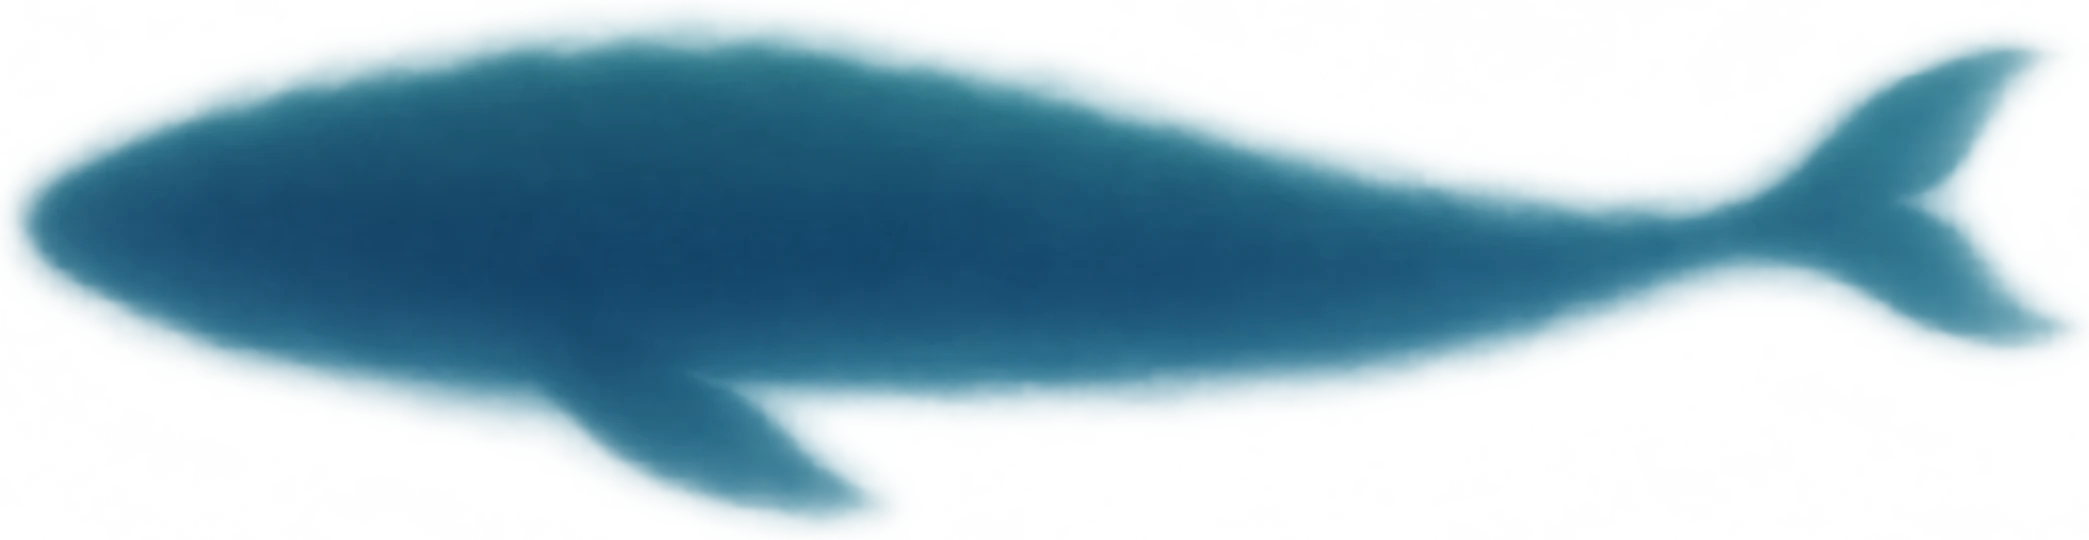
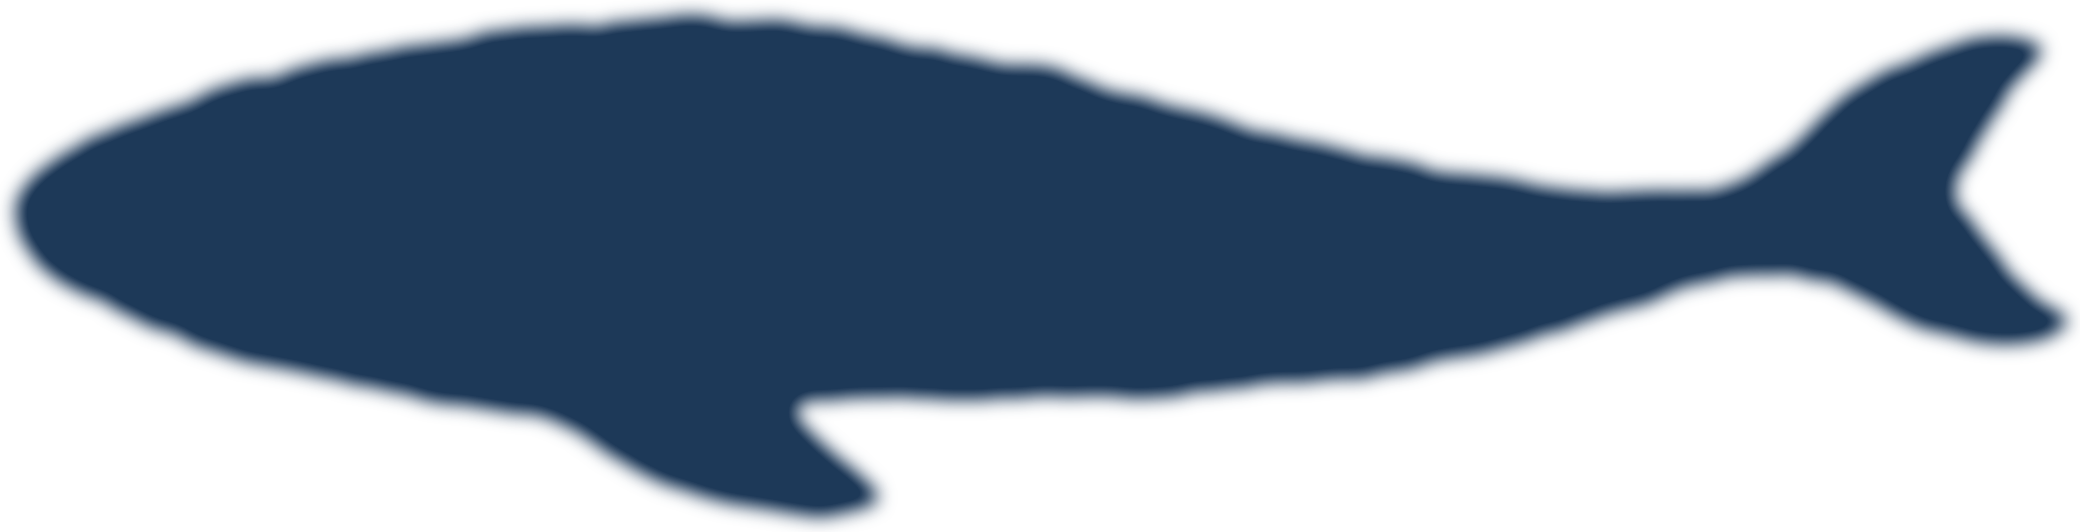
자세 그림으로 움직임 교체: 그림자 헤엄·돌아서기·몸부림·잠수·솟구침, 수면 부풀기, 고래가 머리부터 나오는 솟구침
- 그림자: 한 장을 늘리고 눌러 뒤집던 방식을 버리고 자세 그림을 넘겨 가며 표시
- 낚이기 직전: 웅크림(잠수 자세) → 돌진(솟구침 자세) → 수면이 부풀어 터짐
- 솟구침: 입이 지나가는 길을 따라 머리만 → 몸 절반 → 온몸 순서로 등장
- 변환 도구: 그림자 장마다 다른 색·번짐을 한 가지로 통일

Claude-Session: https://claude.ai/code/session_0142yqQtSepe3ngremP8BMYq

diff --git a/src/render.js b/src/render.js
@@ -225,6 +225,7 @@ export function render(ctx, g) {
   drawWave(ctx, g, view, -2.5, 0.75, -g.time * 5, false);     // 뒤쪽 파도
   drawRays(ctx, g);
   drawLeap(ctx, g, false);
+  drawBulge(ctx, g);
   drawBursts(ctx, g);
   drawBoat(ctx, g);
   drawWave(ctx, g, view, 0, 1, g.time * 9, true);             // 앞쪽 파도 (배 밑동을 가린다)
@@ -292,44 +293,54 @@ function drawShafts(ctx, g) {
   ctx.restore();
 }
 
-// 그림자 (모든 생물 공통). 방향을 바꿀 때는 뒤집지 않고 몸을 틀어 짧아졌다 길어진다.
-// 버퍼에 이음매 없이 휘어 그린 뒤, 물색을 어둡게 물들이는 방식(multiply)으로 찍는다.
-const SH_N = 96, SH_W = 10;                      // 조각 수 × 조각 폭(px) = 버퍼 안의 몸길이
-const shadowBuf = document.createElement('canvas');
-shadowBuf.width = SH_N * SH_W + 64; shadowBuf.height = 600;   // 크게 휠 때도 잘리지 않게 넉넉히
-const shadowCtx = shadowBuf.getContext('2d');
+// 그림자 (모든 생물 공통). 그림 한 장을 늘리거나 뒤집지 않고 자세 그림을 넘긴다:
+//   헤엄 = 꼬리가 오르내리는 4동작을 번갈아, 돌아서기 = 몸을 트는 3동작을 거쳐 반대쪽으로,
+//   몸부림·잠수·솟구침 = 각각의 자세.
+// 물색을 어둡게 물들이는 방식(multiply)으로 찍어 물속에 잠긴 것처럼 보이게 한다.
+//                 그림 폭 ÷ 몸길이   기울기 반영 정도
+const POSE = {
+  swim:   { span: 1.0,  tilt: 1 },
+  turn_1: { span: 0.8,  tilt: 0.3 },
+  turn_2: { span: 0.68, tilt: 0.2 },
+  turn_3: { span: 0.62, tilt: 0 },
+  thrash: { span: 0.92, tilt: 0.3 },
+  dive:   { span: 0.86, tilt: 0.3 },
+  surge:  { span: 0.86, tilt: 0.3 },
+};
+
+function drawShadowPose(ctx, s, name, pose, alpha) {
+  if (alpha < 0.01) return;
+  const spr = sprite(name), d = POSE[pose];
+  const w = s.len * d.span, h = w * spr.h / spr.w;
+  const depth = clamp(s.y / DEEP, 0, 1);
+  ctx.save();
+  ctx.translate(s.x, WL + s.y);
+  ctx.scale(s.face > 0 ? -1 : 1, 1);            // 그림은 왼쪽을 본다
+  ctx.rotate(-s.pitch * d.tilt);
+  ctx.imageSmoothingEnabled = true;
+  ctx.globalCompositeOperation = 'multiply';     // 물을 어둡게
+  ctx.globalAlpha = lerp(1, 0.6, depth) * s.vis * alpha;
+  ctx.drawImage(spr.img, -w / 2, -h / 2, w, h);
+  ctx.drawImage(spr.img, -w / 2, -h / 2, w, h);
+  ctx.globalCompositeOperation = 'source-over';  // 형태가 또렷이 읽히도록 한 번 더 옅게
+  ctx.globalAlpha = lerp(0.3, 0.08, depth) * s.vis * alpha;
+  ctx.drawImage(spr.img, -w / 2, -h / 2, w, h);
+  ctx.restore();
+}
 
 function drawShadow(ctx, g) {
   const s = g.sw;
   if (!s || s.vis < 0.01) return;
-  const spr = sprite('c_shadow');
-  const inner = SH_N * SH_W, bh = inner * spr.h / spr.w, sw = spr.img.width / SH_N;
-  shadowCtx.clearRect(0, 0, shadowBuf.width, shadowBuf.height);
-  shadowCtx.imageSmoothingEnabled = true;
-  for (let i = 0; i < SH_N; i++) {               // 머리(왼쪽)는 거의 그대로, 꼬리로 갈수록 크게 위아래로
-    const k = i / (SH_N - 1);
-    let off = Math.sin(s.tail - k * 4.2) * inner * s.tailAmp * (0.28 + k * 0.72);   // 온몸이 물결치고 꼬리가 가장 크게
-    off += s.shake * 0.5 * Math.sin(g.time * 16) * inner * 0.04 * (1 - k) * (1 - k);
-    shadowCtx.drawImage(spr.img, i * sw, 0, sw, spr.img.height, 32 + i * SH_W, (shadowBuf.height - bh) / 2 + off, SH_W, bh);
-  }
-  const k = s.len / inner;
-  // 그림은 왼쪽을 본다. 몸을 트는 동안에도 정면에서 본 몸통 굵기(약 30%)보다 좁아지지 않는다.
-  const fx = (s.face <= 0 ? 1 : -1) * Math.max(0.3, Math.abs(s.face));
-  const depth = clamp(s.y / DEEP, 0, 1);
-  ctx.save();
-  ctx.translate(s.x, WL + s.y);
-  ctx.scale(fx, 1);
-  ctx.rotate(-s.pitch * Math.abs(s.face));
-  ctx.imageSmoothingEnabled = true;
-  const dx = -shadowBuf.width * k / 2, dy = -shadowBuf.height * k / 2, dw = shadowBuf.width * k, dh = shadowBuf.height * k;
-  ctx.globalCompositeOperation = 'multiply';     // 물을 어둡게
-  ctx.globalAlpha = lerp(1, 0.6, depth) * s.vis;
-  ctx.drawImage(shadowBuf, dx, dy, dw, dh);
-  ctx.drawImage(shadowBuf, dx, dy, dw, dh);
-  ctx.globalCompositeOperation = 'source-over';  // 형태가 또렷이 읽히도록 한 번 더 옅게
-  ctx.globalAlpha = lerp(0.35, 0.1, depth) * s.vis;
-  ctx.drawImage(shadowBuf, dx, dy, dw, dh);
-  ctx.restore();
+  const one = (pose, alpha) => {
+    if (pose !== 'swim') return drawShadowPose(ctx, s, 'c_shadow_' + pose, pose, alpha);
+    // 헤엄: 꼬리 박자에 맞춰 4동작을 이어 넘긴다
+    const ph = wrapX(s.tail / (Math.PI * 2), 1) * 4, i = Math.floor(ph), f = ph - i;
+    const k = f * f * (3 - 2 * f);
+    drawShadowPose(ctx, s, 'c_shadow_swim_' + (i + 1), 'swim', alpha * (1 - k));
+    drawShadowPose(ctx, s, 'c_shadow_swim_' + ((i + 1) % 4 + 1), 'swim', alpha * k);
+  };
+  if (s.prevPose && s.mix < 1) one(s.prevPose, 1 - s.mix);
+  one(s.pose, s.prevPose ? s.mix : 1);
 }
 
 function drawBubbles(ctx, g) {
@@ -358,21 +369,57 @@ function drawRays(ctx, g) {
   ctx.restore();
 }
 
-// 낚아 올린 생물. under=true 는 수면 아래에 잠긴 부분(어둡게), false 는 물 위 부분.
+// 낚아 올린 생물. under=true 는 수면 아래에 잠긴 부분(어두운 덩어리), false 는 물 위 부분.
+// 솟구치는 동안에는 입의 위치를 기준으로 자세 그림을 넘긴다: 머리만 → 몸 절반 → 온몸.
+//                    그림              폭 ÷ 온몸 폭   그림 안에서 입의 위치(가로, 세로)
+const RISE = [
+  ['c_whale_rise_1', 0.52, 0.93, 0.20],
+  ['c_whale_rise_2', 0.72, 0.95, 0.14],
+  ['c_whale_leap',   1.00, 0.96, 0.22],
+];
+const UNDER_TINT = ['#0a2140', 0.94];
+
 function drawLeap(ctx, g, under) {
   const c = g.catch;
   if (!c || c.phase === 'pull') return;
-  // 물에 잠긴 부분은 무늬가 보이지 않는 어두운 그림자 덩어리로 (물속 그림자와 같은 색)
-  const base = under ? tinted('c_whale_leap', '#0a2140', 0.94) : sprite('c_whale_leap');
-  const fall = under ? tinted('c_whale_fall', '#0a2140', 0.94) : sprite('c_whale_fall');
-  const w = c.lw * c.scale;
   ctx.save();
   if (!under) { ctx.beginPath(); ctx.rect(-4000, -4000, 8000, 4000 + WL + 1.5); ctx.clip(); }
-  ctx.translate(c.x, c.y); ctx.rotate(c.rot);
   ctx.imageSmoothingEnabled = true; ctx.imageSmoothingQuality = 'high';
   const a = c.alpha * (under ? 0.88 : 1);
-  if (c.mix < 1) { ctx.globalAlpha = a * (1 - c.mix); ctx.drawImage(base.img, -w / 2, -w * base.h / base.w / 2, w, w * base.h / base.w); }
-  if (c.mix > 0) { ctx.globalAlpha = a * c.mix; ctx.drawImage(fall.img, -w / 2, -w * fall.h / fall.w / 2, w, w * fall.h / fall.w); }
+  if (c.phase === 'leap') {
+    const [name, wk, fx, fy] = RISE[c.stage];
+    if (!under || c.stage === 2) {               // 머리·절반 자세는 물에 잠긴 부분이 그림에 없다
+      const spr = under ? tinted(name, ...UNDER_TINT) : sprite(name);
+      const w = c.lw * wk, h = w * spr.h / spr.w;
+      ctx.globalAlpha = a;
+      ctx.translate(c.mx, c.my); ctx.rotate(c.rot);
+      ctx.drawImage(spr.img, -fx * w, -fy * h, w, h);
+    }
+  } else {
+    const base = under ? tinted('c_whale_leap', ...UNDER_TINT) : sprite('c_whale_leap');
+    const fall = under ? tinted('c_whale_fall', ...UNDER_TINT) : sprite('c_whale_fall');
+    const w = c.lw * c.scale;
+    ctx.translate(c.x, c.y); ctx.rotate(c.rot);
+    if (c.mix < 1) { ctx.globalAlpha = a * (1 - c.mix); ctx.drawImage(base.img, -w / 2, -w * base.h / base.w / 2, w, w * base.h / base.w); }
+    if (c.mix > 0) { ctx.globalAlpha = a * c.mix; ctx.drawImage(fall.img, -w / 2, -w * fall.h / fall.w / 2, w, w * fall.h / fall.w); }
+  }
+  ctx.restore();
+}
+
+// 낚이기 직전: 머리가 밀어 올린 수면이 둥글게 부풀다가(1) 터지며 갈라진다(2)
+function drawBulge(ctx, g) {
+  const c = g.catch;
+  if (!c) return;
+  let k, frame, a = 1;
+  if (c.phase === 'pull' && c.bulgeK > 0) { k = Math.min(1, c.bulgeK); frame = c.bulgeK > 1 ? 2 : 1; }
+  else if (c.phase === 'leap' && c.pt < 0.3) { k = 1; frame = 2; a = 1 - c.pt / 0.3; }
+  else return;
+  const spr = sprite('c_bulge_' + frame);
+  const w = c.lw * 0.85 * (0.45 + 0.55 * k), h = w * spr.h / spr.w * (0.35 + 0.65 * k);
+  ctx.save();
+  ctx.globalAlpha = a * Math.min(1, k * 3);
+  ctx.imageSmoothingEnabled = true;
+  ctx.drawImage(spr.img, c.hitX - w / 2, surfaceY(g, c.hitX) + h * 0.4 - h, w, h);
   ctx.restore();
 }
 

diff --git a/src/game.js b/src/game.js
@@ -6,7 +6,7 @@ import {
 } from './config.js';
 import { rollCreature } from './creatures.js';
 import { preloadCreature } from './assets.js';
-import { createSwimmer, steer, mouth } from './swim.js';
+import { createSwimmer, steer, mouth, updatePose } from './swim.js';
 
 const rand = (a, b) => a + Math.random() * (b - a);
 const lerp = (a, b, t) => a + (b - a) * t;
@@ -170,7 +170,7 @@ function reelIn(g) {
 function flee(g) {
   if (!g.sw) return;
   const s = g.sw;
-  s.fleeing = true;
+  s.fleeing = true; s.act = 'dive';
   s.target = { x: s.x - 320 - s.len * 0.4, y: DEEP + 20, speed: 1.4 };
 }
 
@@ -288,6 +288,8 @@ export function update(g, dt) {
       break;
     }
   }
+
+  if (g.sw) updatePose(g.sw, dt);
 
   // 달아나는 그림자: 깊어지고 흐려지다 사라진다
   if (g.sw && g.sw.fleeing) {
@@ -479,6 +481,7 @@ function updateFight(g, dt) {
   }
   steer(s, dt, { arrive: f.mode !== 'run' });
   s.vis = 1;
+  s.act = f.mode === 'thrash' && s.y < 30 ? 'thrash' : f.mode === 'dive' && s.pitch > 0.18 ? 'dive' : null;
 
   followLine(g, dt);
   g.bob.dipTarget = f.surging ? 8 : 5;
@@ -540,6 +543,7 @@ function startCatch(g) {
     rise: 1.15 + clamp(L / 1500, 0, 0.6),
     x: ex, y: WL + 200, rot: -0.5, out: 0, mix: 0, alpha: 1, scale: 1,
     erupted: false, shed: 0, skip: false, from: null, trail: 0,
+    bulgeK: 0, hitX: ex, stage: 0, mx: ex, my: WL,
   };
   g.fight = null;
   snd(g, 'surge');
@@ -549,6 +553,7 @@ function startCatch(g) {
 // 솟구치는 자세 그림 안에서 입의 위치 (그림 폭·높이 대비, 가운데 기준)
 export const LEAP_MOUTH = [0.46, -0.28];
 export function leapMouth(c, lh) {
+  if (c.phase === 'leap') return { x: c.mx, y: c.my };
   const mx = LEAP_MOUTH[0] * c.lw * c.scale, my = LEAP_MOUTH[1] * lh * c.scale;
   const cs = Math.cos(c.rot), sn = Math.sin(c.rot);
   return { x: c.x + mx * cs - my * sn, y: c.y + mx * sn + my * cs };
@@ -571,21 +576,22 @@ function updateCatch(g, dt) {
       const coil = { x: c.ex - lw * 0.3, y: Math.min(DEEP * 0.6, 40 + lh * 0.15) }, hit = { x: c.ex - lw * 0.12, y: 14 };
       if (u < 0.55) {
         const k = u / 0.55, e = k * k * (3 - 2 * k);
-        s.x = lerp(f.x, coil.x, e); s.y = lerp(f.y, coil.y, e); s.pitch = lerp(f.pitch, 0.15, e);
+        s.x = lerp(f.x, coil.x, e); s.y = lerp(f.y, coil.y, e); s.pitch = lerp(f.pitch, 0.2, e);
+        s.act = k > 0.35 ? 'dive' : null;
       } else {
         const k = (u - 0.55) / 0.45, e = k * k;                       // 점점 빨라지며 돌진
-        s.x = lerp(coil.x, hit.x, e); s.y = lerp(coil.y, hit.y, e); s.pitch = lerp(0.15, -0.9, Math.min(1, k * 1.6));
+        s.x = lerp(coil.x, hit.x, e); s.y = lerp(coil.y, hit.y, e); s.pitch = lerp(0.2, -0.5, Math.min(1, k * 1.6));
+        s.act = 'surge';
         c.trail -= dt;
         if (c.trail <= 0) { c.trail = 0.05; bubbles(g, s.x - lw * 0.2, WL + s.y + 10, 1, lw * 0.08); }
       }
       s.face = approach(s.face, 1, 10, dt); s.vis = 1; s.shake = 1;
-      s.tail += dt * s.beat * 2.4; s.tailAmp = approach(s.tailAmp, 0.11, 6, dt);
+      s.tail += dt * s.beat * 2.4;
       followLine(g, dt);
-      if (u > 0.72 && !c.bulge) {                                    // 머리가 수면을 밀어 올리며 물이 부서지기 시작한다
-        c.bulge = true;
-        burst(g, 'c_thrash', hit.x + lw * 0.1, clamp(lw * 0.55, 110, 460), 0.7);
-        swell(g, hit.x, 4 + lw * 0.01, 1, 110, 50); swell(g, hit.x, 4 + lw * 0.01, -1, 110, 50);
-      }
+      // 머리가 수면을 밀어 올린다: 둥글게 부풀다가(1) 터지며 갈라진다(2)
+      c.hitX = hit.x + lw * 0.08;
+      c.bulgeK = clamp((u - 0.5) / 0.36, 0, 1) + (u > 0.9 ? 1 : 0);
+      if (u > 0.7 && !c.bulge) { c.bulge = true; swell(g, hit.x, 4 + lw * 0.01, 1, 110, 50); swell(g, hit.x, 4 + lw * 0.01, -1, 110, 50); }
     }
     if (c.pt >= T_PULL || c.skip) {
       // 수면이 터진다: 히트스톱 + 번쩍임 + 물 폭발 + 사방으로 물보라 + 큰 물결
@@ -605,7 +611,13 @@ function updateCatch(g, dt) {
     // 줄에 끌려 물 밖으로 뽑혀 나온다: 빠르게 솟았다가 꼭대기에서 느려진다
     if (c.skip) c.pt = Math.max(c.pt, c.rise);
     const u = clamp(c.pt / c.rise, 0, 1), e = easeOut(u);
-    c.x = lerp(start.x, apex.x, e); c.y = lerp(start.y, apex.y, e); c.rot = lerp(-0.5, 0, e);
+    // 입이 지나가는 길(수면 → 꼭대기)을 따라, 머리만(0) → 몸 절반(1) → 온몸(2) 순서로 자세 그림을 넘긴다
+    const m0 = { x: c.ex + lw * 0.12, y: WL + lh * 0.04 }, m1 = { x: apex.x + lw * LEAP_MOUTH[0], y: apex.y + lh * LEAP_MOUTH[1] };
+    c.mx = lerp(m0.x, m1.x, Math.pow(e, 1.25)); c.my = lerp(m0.y, m1.y, e);
+    const stage = e < 0.22 ? 0 : e < 0.48 ? 1 : 2;
+    if (stage !== c.stage) { c.stage = stage; spray(g, c.mx - lw * 0.25, WL, 4, 150 + lw * 0.25, lw * 0.22); }
+    c.rot = stage === 2 ? lerp(-0.3, 0, easeOut((e - 0.48) / 0.52)) : 0;
+    c.x = c.mx - lw * LEAP_MOUTH[0]; c.y = c.my - lh * LEAP_MOUTH[1];
     c.out = e;
     if (u > 0.12 && u < 1 && !c.skip) g.slowTarget = SLOW[gi];
     out.roughTarget = 1; out.shaftsTarget = 0.8; out.raysTarget = u > 0.35 ? 0.65 + gi * 0.07 : 0; out.dimTarget = DIM[gi];

diff --git a/src/swim.js b/src/swim.js
@@ -18,6 +18,8 @@ export function createSwimmer(len, x, y, face = 1) {
     pitch: 0,             // 머리를 숙인 정도(+) / 든 정도(-)
     speed: 0, vis: 0,
     tail: 0, tailAmp: 0.03, shake: 0,
+    act: null,            // 특별한 자세: 'thrash' 몸부림 / 'dive' 잠수 / 'surge' 솟구침 (없으면 헤엄)
+    pose: 'swim', prevPose: null, mix: 1,   // 지금 자세, 직전 자세, 넘어가는 정도
     maxSpeed: 60 / Math.sqrt(big) + len * 0.1,
     turnTime: 0.9 * Math.sqrt(big),      // 완전히 돌아서는 데 걸리는 시간(초)
     accel: 1.8 / Math.sqrt(big),
@@ -67,4 +69,12 @@ export function steer(s, dt, { arrive = true } = {}) {
   s.tailAmp = approach(s.tailAmp, 0.035 + pace * 0.06 + kick * 0.08, 4, dt);
   s.shake = approach(s.shake, 0, 3, dt);
   return Math.hypot(dx, dy);
+}
+
+// 지금 보여줄 자세 그림. 돌아설 때는 몸을 트는 3동작을 거쳐 반대쪽을 본다.
+export function updatePose(s, dt) {
+  const af = Math.abs(s.face);
+  const p = af < 0.22 ? 'turn_3' : af < 0.52 ? 'turn_2' : af < 0.8 ? 'turn_1' : (s.act || 'swim');
+  if (p !== s.pose) { s.prevPose = s.pose; s.pose = p; s.mix = 0; }
+  s.mix = Math.min(1, s.mix + dt / 0.18);
 }

diff --git a/tools/build_assets.py b/tools/build_assets.py
@@ -92,7 +92,7 @@ SHEETS = {
     'c_boat': [dict(name=f'c_boat_{i + 1}', w=36, grid=(1, 3), upscale=True) for i in range(3)],
     'c_rod': [dict(name='c_rod', w=44, upscale=True)],
     'c_float': [dict(name='c_float', h=24, upscale=True)],
-    'c_shadow': [dict(name='c_shadow', w=256, soft=True, upscale=True)],
+    'c_shadow': [dict(name='c_shadow', w=256, soft=True, upscale=True, silhouette=True)],
     'c_bubbles': [dict(name=f'c_bubbles_{i + 1}', w=64, grid=(2, 2), upscale=True) for i in range(4)],
     'c_thrash': [dict(name='c_thrash', w=200, soft=True, upscale=True)],
     'c_bowspray': [dict(name=f'c_bowspray_{i + 1}', w=40, grid=(1, 2), upscale=True) for i in range(2)],
@@ -103,10 +103,10 @@ SHEETS = {
     'c_whale_leap': [dict(name='c_whale_leap', w=300, upscale=True)],
     'c_whale_fall': [dict(name='c_whale_fall', w=300, upscale=True)],
     # ── 움직임용 자세 그림 ──
-    'c_shadow_swim': [dict(name=f'c_shadow_swim_{i + 1}', w=256, grid=(1, 4), soft=True, upscale=True) for i in range(4)],
-    'c_shadow_turn': [dict(name=f'c_shadow_turn_{i + 1}', w=256, grid=(1, 3), soft=True, upscale=True) for i in range(3)],
-    'c_shadow_act': [dict(name=f'c_shadow_{n}', w=256, grid=(1, 3), soft=True, upscale=True) for n in ['thrash', 'dive', 'surge']],
-    'c_bulge': [dict(name=f'c_bulge_{i + 1}', w=256, grid=(1, 2), soft=True, upscale=True) for i in range(2)],
+    'c_shadow_swim': [dict(name=f'c_shadow_swim_{i + 1}', w=256, grid=(1, 4), soft=True, upscale=True, silhouette=True) for i in range(4)],
+    'c_shadow_turn': [dict(name=f'c_shadow_turn_{i + 1}', w=256, grid=(1, 3), soft=True, upscale=True, silhouette=True) for i in range(3)],
+    'c_shadow_act': [dict(name=f'c_shadow_{n}', w=256, grid=(1, 3), soft=True, upscale=True, silhouette=True) for n in ['thrash', 'dive', 'surge']],
+    'c_bulge': [dict(name=f'c_bulge_{i + 1}', w=256, grid=(1, 2), soft=True, upscale=True, fade=(0.55, 0.92), fade_x=0.14) for i in range(2)],
     'c_whale_rise': [dict(name=f'c_whale_rise_{i + 1}', w=300, grid=(1, 2), upscale=True) for i in range(2)],
     'web_node': [dict(name=f'web_node_{i + 1}', w=48, grid=(3, 4)) for i in range(12)],
 }
@@ -205,6 +205,12 @@ def build():
         first = items[0]
         soft = first.get('soft', False)
         a = load(src, first.get('opaque', False), soft)
+        if first.get('silhouette'):
+            # 그림자: 장마다 색·가장자리가 달라서, 모양만 살리고 한 가지 색과 번짐으로 통일한다
+            mask = Image.fromarray(((a[..., 3] > 60) * 255).astype(np.uint8))
+            blur = np.array(mask.filter(ImageFilter.GaussianBlur(a.shape[1] * 0.004)), dtype=np.float32) / 255
+            a[..., 0], a[..., 1], a[..., 2] = 16, 46, 78
+            a[..., 3] = (np.clip(blur * 1.15, 0, 1) * 242).astype(np.uint8)
         thr = 6 if soft else ALPHA_MIN
         ys = np.where((a[..., 3] > thr).any(axis=1))[0]; xs = np.where((a[..., 3] > thr).any(axis=0))[0]
         if first.get('whole'):
@@ -228,6 +234,10 @@ def build():
                 f0, f1 = item['fade']
                 ramp = np.clip((f1 - np.linspace(0, 1, part.shape[0])) / (f1 - f0), 0, 1)
                 part[..., 3] = (part[..., 3] * ramp[:, None]).astype(np.uint8)
+            if item.get('fade_x'):                               # 좌우 끝도 서서히 투명하게
+                e = item['fade_x']; xs_ = np.linspace(0, 1, part.shape[1])
+                ramp = np.clip(np.minimum(xs_, 1 - xs_) / e, 0, 1)
+                part[..., 3] = (part[..., 3] * ramp[None, :]).astype(np.uint8)
             crop = Image.fromarray(part)
             ratio = crop.width / crop.height
             w = item.get('w') or item['h'] * ratio

diff --git a/ASSET_QUEUE.md b/ASSET_QUEUE.md
@@ -167,8 +167,8 @@
 | 145 | `c_shafts` | 물속 빛살 | **DONE** | |
 | 146 | `c_whale_leap` | 고래: 솟구치는 자세 | **DONE** | |
 | 147 | `c_whale_fall` | 고래: 떨어지는 자세 | **DONE** | |
-| 148 | `c_shadow_swim` | 그림자: 헤엄 4동작 | **TODO** | |
-| 149 | `c_shadow_turn` | 그림자: 돌아서기 3동작 | **TODO** | |
-| 150 | `c_shadow_act` | 그림자: 몸부림·잠수·솟구침 3동작 | **TODO** | |
-| 151 | `c_bulge` | 수면이 부풀어 터지기 2동작 | **TODO** | |
-| 152 | `c_whale_rise` | 고래: 수면을 뚫고 나오는 2동작 | **TODO** | |
+| 148 | `c_shadow_swim` | 그림자: 헤엄 4동작 | DONE | |
+| 149 | `c_shadow_turn` | 그림자: 돌아서기 3동작 | DONE | |
+| 150 | `c_shadow_act` | 그림자: 몸부림·잠수·솟구침 3동작 | DONE | |
+| 151 | `c_bulge` | 수면이 부풀어 터지기 2동작 | DONE | |
+| 152 | `c_whale_rise` | 고래: 수면을 뚫고 나오는 2동작 | DONE | |
